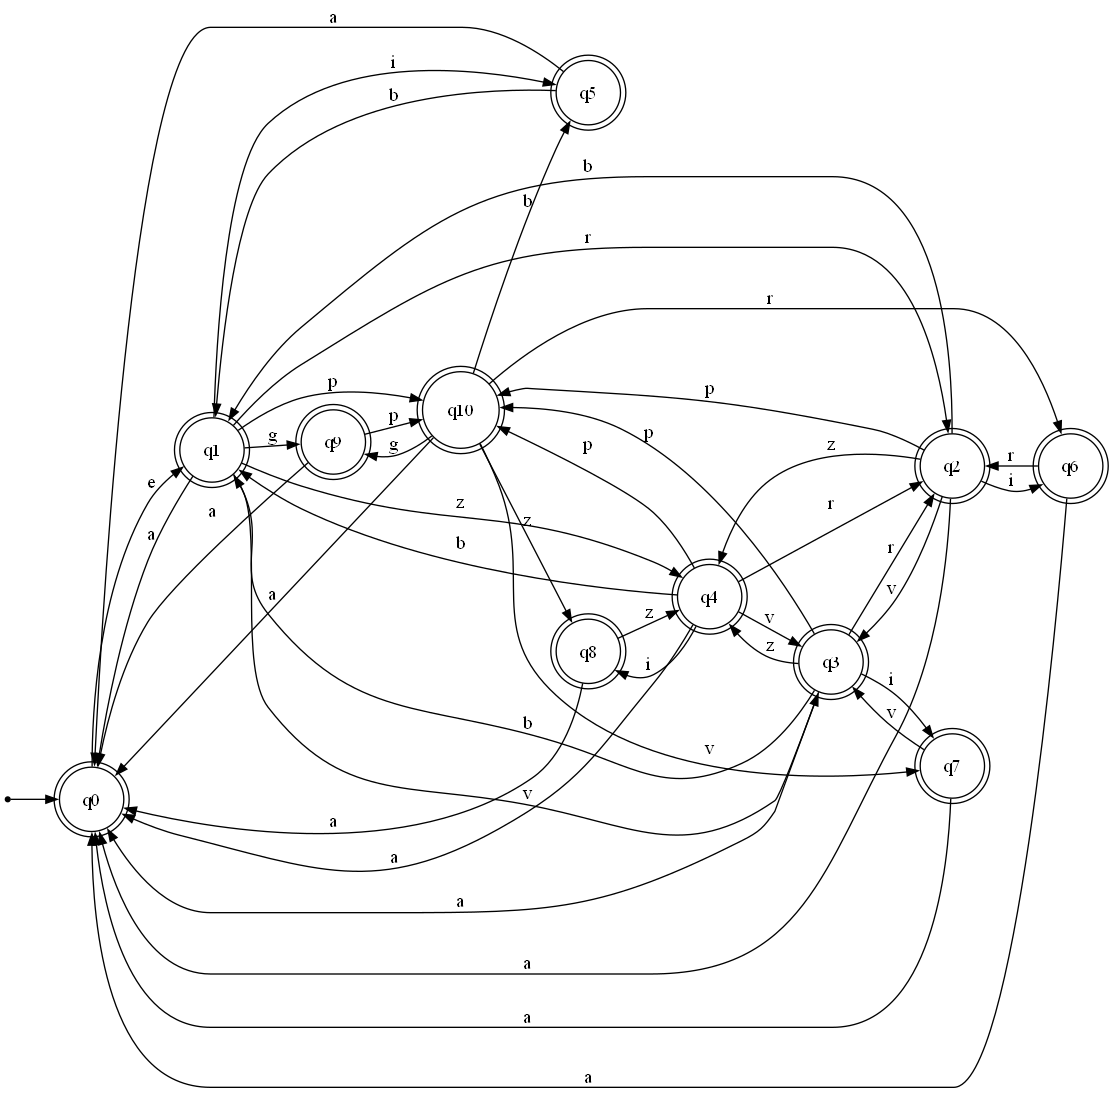
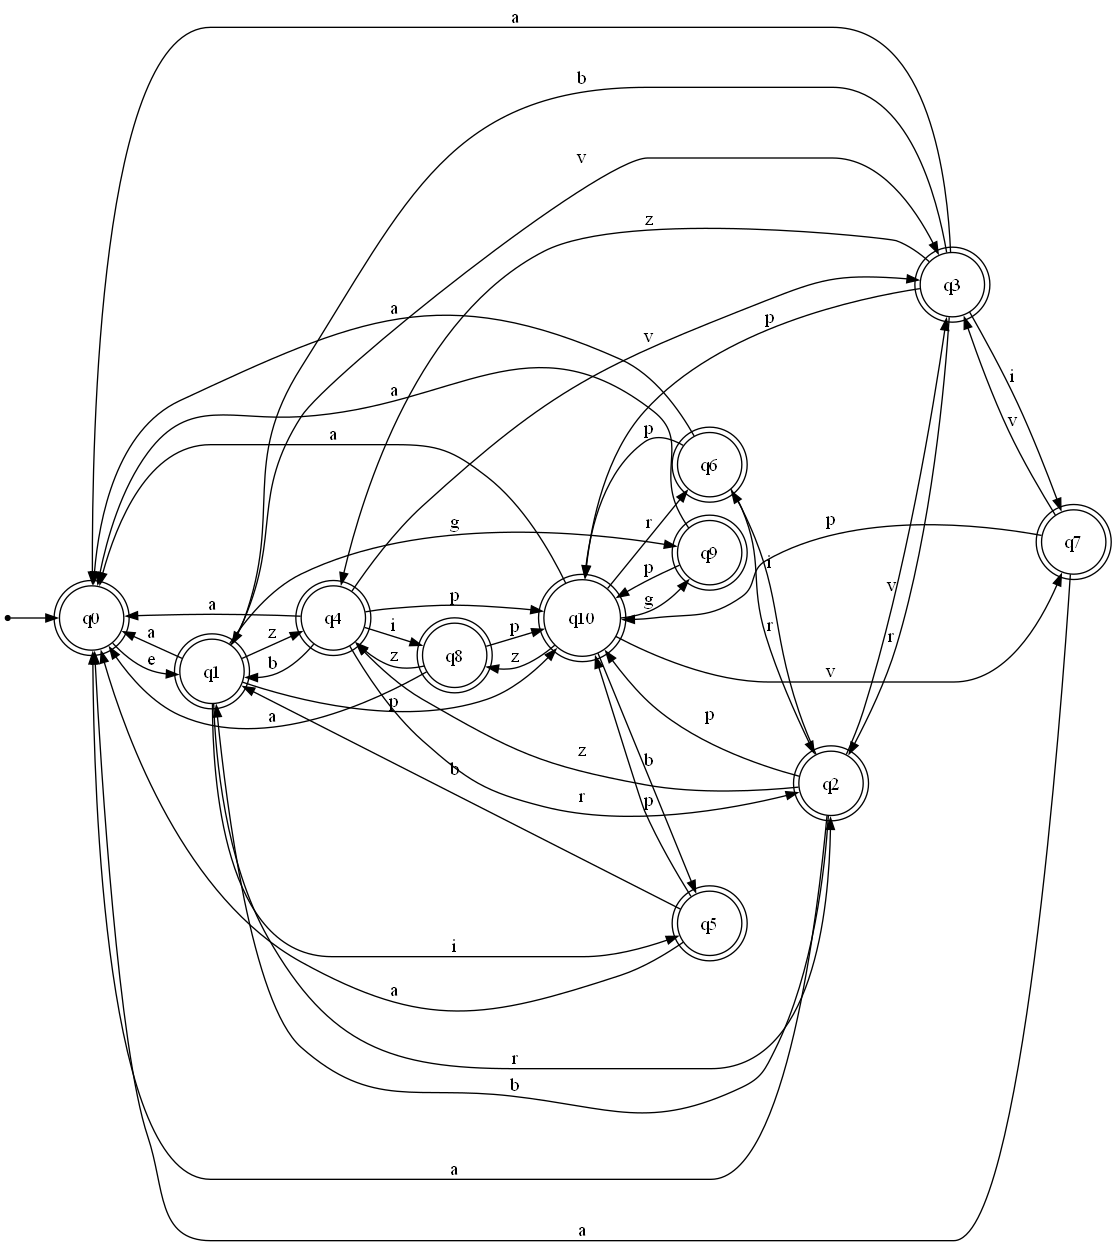
fetch con pruebas

diff --git a/luces.py b/luces.py
@@ -1,4 +1,3 @@
-import sys
 from automata.fa.dfa import DFA
 from MaquinaDeMoore import MaquinaDeMoore
 
@@ -30,9 +29,8 @@ dfa_foco = DFA(
 # Generación del diagrama visual con automata-lib[visual] y Graphviz
 try:
     dfa_foco.show_diagram(path="diagrama.png")
-    print("📊 Diagrama exportado exitosamente como 'diagrama.png'.")
-except Exception as e:
-    print(f"⚠ No se pudo generar el diagrama visual: {e}")
+except Exception:
+    pass
 
 # 2. Diccionario de salidas físicas de Moore (El Traductor)
 # Respetamos tus nombres de estados y efectos.
@@ -53,74 +51,6 @@ salidas_foco = {
 # 3. Instanciamos la Máquina de Moore conectando ambas piezas
 foco_principal = MaquinaDeMoore(dfa_foco, salidas_foco)
 
-def dibujar_foco_consola(estado):
-    """Representación visual reactiva del foco con arte ASCII y colores ANSI."""
-    RESET = "\033[0m"
-    BOLD = "\033[1m"
-    DIM = "\033[2m"
-    
-    PALETAS = {
-        'q0':  {"c": "\033[90m", "glow": "\033[90m", "icon": "🔌"},
-        'q1':  {"c": "\033[97m", "glow": "\033[93m", "icon": "💡"},
-        'q2':  {"c": "\033[91m", "glow": "\033[91m", "icon": "🔴"},
-        'q3':  {"c": "\033[92m", "glow": "\033[92m", "icon": "🟢"},
-        'q4':  {"c": "\033[94m", "glow": "\033[94m", "icon": "🔵"},
-        'q5':  {"c": "\033[97m", "glow": "\033[93m", "icon": "✨"},
-        'q6':  {"c": "\033[91m", "glow": "\033[91m", "icon": "✨"},
-        'q7':  {"c": "\033[92m", "glow": "\033[92m", "icon": "✨"},
-        'q8':  {"c": "\033[94m", "glow": "\033[94m", "icon": "✨"},
-        'q9':  {"c": "\033[95m", "glow": "\033[96m", "icon": "🌈"},
-        'q10': {"c": "\033[93m", "glow": "\033[33m", "icon": "⚙"}
-    }
-    
-    info = PALETAS.get(estado, PALETAS['q0'])
-    c = info['c']
-    g = info['glow']
-    
-    if estado == 'q0':
-        art = f"""{DIM}{c}
-       .-------.
-     /           \\
-    |     OFF     |
-     \\           /
-       '-------'
-         |===|
-         \\___/{RESET}"""
-    elif estado in ('q5', 'q6', 'q7', 'q8'):
-        art = f"""
-  {g}⚡   \\   :   /   ⚡{RESET}
-    {c} -  .-----.  -{RESET}
-  {g}✨  /  {BOLD}{info['icon']}{RESET}{c}   \\  ✨{RESET}
- {g}==== | FLASH | ===={RESET}
-  {g}✨  \\  {BOLD}{info['icon']}{RESET}{c}   /  ✨{RESET}
-    {c} -  '-----'  -{RESET}
-  {g}⚡   /   :   \\   ⚡{RESET}
-       {DIM}|===|{RESET}
-       {DIM}\\___/{RESET}"""
-    elif estado == 'q9':
-        art = f"""
-  \033[91m\\   \033[93m:   \033[92m/{RESET}
-\033[96m-  \033[95m.-----.  \033[91m-{RESET}
-\033[93m:  \033[92m/  🌈   \\  \033[96m:{RESET}
-\033[95m--- \033[91m| R G B | \033[93m---{RESET}
-\033[92m:  \033[96m\\       /  \033[95m:{RESET}
-\033[91m-  \033[93m'-----'  \033[92m-{RESET}
-  \033[96m/   \033[95m:   \033[91m\\{RESET}
-     \033[90m|===|\033[0m
-     \033[90m\\___/\033[0m"""
-    else:
-        art = f"""
-    {g}\\   :   /{RESET}
-  {g}-  {c}.-----.  {g}-{RESET}
- {g}:  {c}/       \\  {g}:{RESET}
-{g}--- {c}|   {BOLD}{info['icon']}{RESET}{c}   | {g}---{RESET}
- {g}:  {c}\\       /  {g}:{RESET}
-  {g}-  {c}'-----'  {g}-{RESET}
-    {g}/   :   \\{RESET}
-       {DIM}|===|{RESET}
-       {DIM}\\___/{RESET}"""
-    print(art)
-
 def caminos_posibles():  
     transiciones = dfa_foco.transitions.get(foco_principal.estado_actual, {})
     if not transiciones:
@@ -131,89 +61,30 @@ def caminos_posibles():
         salida = salidas_foco.get(proximo_estado, "Desconocido")
         print(f" - [{simbolo}]: {salida} ({proximo_estado})")
 
+# 4. Bucle continuo de interacción
+print("--- Sistema de Iluminación Iniciado ---")
+print("Estado inicial:", foco_principal.obtener_estado_fisico())
+print("Alfabeto:")
+print(" e: Encender | a: Apagar   | b: Blanco | r: Rojo | v: Verde | z: Azul")
+print(" i: Intermit.| p: Patrones | g: RGB")
+print("-" * 45)
 
-comandos = """ 
-e = Encender  
-a = Apagar  
-b = Blanco  
-r = Rojo  
-v = Verde  
-z = Azul  
-p = Menu de Patrones  
-i = Intermitente  
-g = RGB
-salir = salir 
-comandos = ver lista de comandos"""
-
-def iniciar_consola():
-    cadenaPalabra = ""
-    ejecucion = True
-
-    # 4. Bucle continuo de interacción
-    print("=" * 50)
-    print("💡 --- SISTEMA DE ILUMINACIÓN INTELIGENTE (FTI) ---")
-    print("=" * 50)
-    print("Estado inicial:", foco_principal.obtener_estado_fisico())
-    dibujar_foco_consola(foco_principal.estado_actual)
-    print("\nAlfabeto y comandos:")
-    print(comandos)
-    print("\n💡 TIP: También podés abrir la interfaz gráfica con: python foco_gui.py")
-    print("-" * 50)
-
-    while ejecucion:
-        letraActual = input("\nIngrese la letra o comando: ").strip().lower()
-
-        if letraActual == "salir":
-            ejecucion = False
-            print("Apagando el sistema...")
-        elif letraActual == "comandos":
-            print(comandos)
-        elif letraActual == "":
-            continue
-        elif len(letraActual) == 1:
-            if letraActual not in dfa_foco.input_symbols:
-                print(f"⚠ El símbolo '{letraActual}' no pertenece al alfabeto.")
-                caminos_posibles()
-                continue
-
-            fue_aceptado, salida_actual = foco_principal.procesar_comando(letraActual)
-            if fue_aceptado:
-                cadenaPalabra += letraActual
-                print(f"✅ Transición exitosa -> {salida_actual}")
-                print(f"Palabra formada por ahora: '{cadenaPalabra}' (Estado: {foco_principal.estado_actual})")
-                dibujar_foco_consola(foco_principal.estado_actual)
-            else:
-                print(f"❌ La acción '{letraActual}' fue rechazada. El foco sigue: {salida_actual}")
-                dibujar_foco_consola(foco_principal.estado_actual)
-                caminos_posibles()
-        else:
-            # Permite secuencias de comandos (ej. 'er', 'ebv', etc.)
-            if all(c in dfa_foco.input_symbols for c in letraActual):
-                todos_aceptados = True
-                for c in letraActual:
-                    fue_aceptado, salida_actual = foco_principal.procesar_comando(c)
-                    if fue_aceptado:
-                        cadenaPalabra += c
-                    else:
-                        print(f"❌ La acción '{c}' fue rechazada desde el estado {foco_principal.estado_actual}.")
-                        todos_aceptados = False
-                        break
-                if todos_aceptados:
-                    print(f"✅ Secuencia aceptada -> {salida_actual}")
-                    print(f"Palabra formada por ahora: '{cadenaPalabra}' (Estado: {foco_principal.estado_actual})")
-                    dibujar_foco_consola(foco_principal.estado_actual)
-                else:
-                    print(f"El foco sigue: {salida_actual}")
-                    dibujar_foco_consola(foco_principal.estado_actual)
-                    caminos_posibles()
-            else:
-                print("⚠ Comando desconocido. Escriba 'comandos' para ver las opciones disponibles.")
-
-    print("\n¡Hasta luego!")
-
-if __name__ == "__main__":
-    if "--gui" in sys.argv:
-        from foco_gui import main as gui_main
-        gui_main()
+while True:
+    comando = input("\nIngrese la letra o comando: ").strip().lower()
+    
+    if comando == 'salir':
+        print("Apagando el sistema...")
+        break
+        
+    if len(comando) != 1 or comando not in dfa_foco.input_symbols:
+        print(f"⚠ El símbolo '{comando}' no pertenece al alfabeto.")
+        caminos_posibles()
+        continue
+        
+    fue_aceptado, salida_actual = foco_principal.procesar_comando(comando)
+    
+    if fue_aceptado:
+        print(f"✅ Transición exitosa -> {salida_actual}")
     else:
-        iniciar_consola()
+        print(f"❌ Comando ignorado. El foco sigue: {salida_actual}")
+        caminos_posibles()
